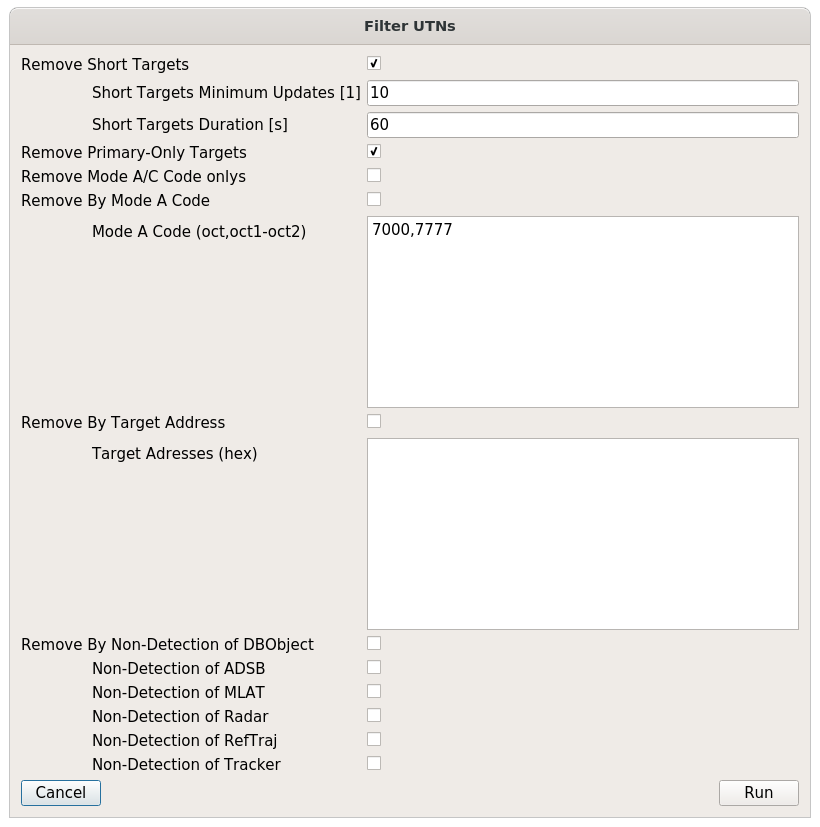
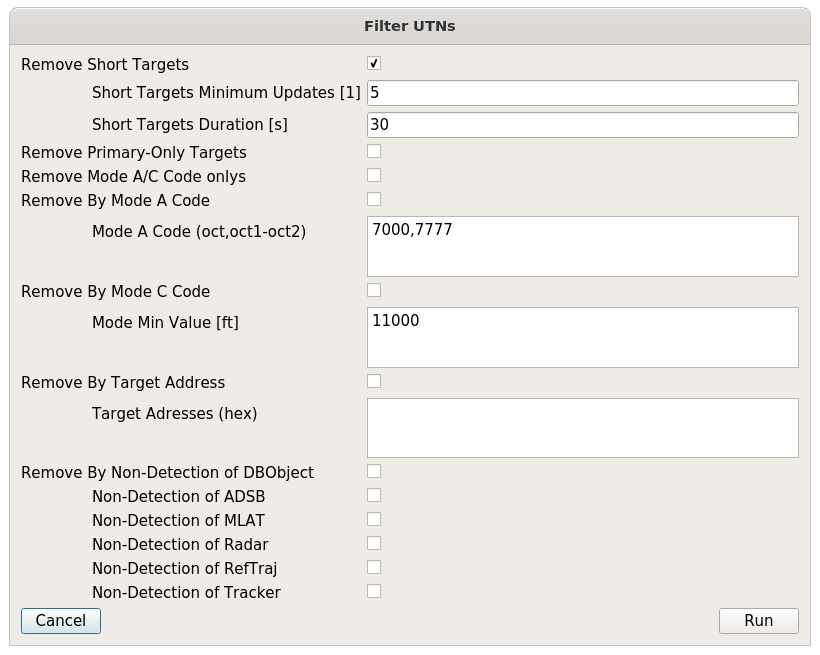
doc update

diff --git a/doc/user_manual/eval/eval_requirements.tex b/doc/user_manual/eval/eval_requirements.tex
@@ -81,6 +81,98 @@ Also, a table is given for all single targets, sorted by PD.
 \end{table}
 \end{center}
 
+
+\subsection{Dubious Tracks}
+\label{sec:eval_req_dubious_tracks} 
+
+\subsubsection{Configuration}
+
+\begin{figure}[H]
+    \includegraphics[width=14cm,frame]{../screenshots/eval_req_dubious_tracks.png}
+   \caption{Evaluation Dubious Tracks}
+\end{figure}
+
+The 'Dubious Tracks' requirement can be used to check for dubious tracks generated by a \textbf{Tracker} data-source (using the attributed track number). This requirement checks based on test data only, so the reference data is of no importance. \\
+
+For each track number (existing in an UTN) a number of checks are performed, and a probability of dubious target report is caluclated. Which checks are used can be defined as follows, but are focused on short tracks or physically dubious movement. \\
+
+\begin{itemize}  
+\item Probability [1]: Probability of dubious track
+\item Probability Check Type: $\geq$
+\item Use only from L.U. Sensor: Checkbox if only data from a single last-updating sensor id should be considered
+\item L.U. Sensor [1]: Last-updating sensor id (number, as in the 'Manage Data-Sources' task)
+\item Minimum Comparison Time [s]: Skip movement checks if time between updates is smaller than the defined time
+\item Maximum Comparison Time [s]: Skip movement checks if time between updates is larger than the defined time
+\item Mark Primary-Only: Checkbox if all primary-only tracks should be counted as dubious
+\item Use Minimum Updates: Checkbox if tracks with less than the defined number of updates should be counted as dubious
+\item Minimum Updates [1]: Minimum number of updates
+\item Use Minimum Duration: Checkbox if tracks with a duration less than the defined time should be counted as dubious
+\item Minimum Duration [s]: Minimum duration
+\item Use Maximum Groundspeed: Checkbox if maximum groundspeed should be used
+\item Maximum Groundspeed [kts]: Maximum groundspeed to be considered
+\item Use Maximum Acceleration: Checkbox if maximum acceleration should be used
+\item Maximum Acceleration [$m/s^{2}$]: Maximum acceleration to be considered
+\item Use Maximum Turnrate: Checkbox if maximum turnrate should be used
+\item Turnrate Groundspeed [deg/s]: Maximum groundspeed to be considered
+\item Use Maximum ROCD: Checkbox if turnrate rate of climb/descent should be used
+\item Maximum ROCD [ft/s]: Maximum  rate of climb/descent to be considered
+\item Dubious Probability [1]: Probability of dubious target report to classify a track as dubious
+\end{itemize}
+\ \\
+
+\subsubsection{Calculation}
+
+As a summary, the reference is used to calculate the number of expected update intervals inside the sector layer (\#EUI). Then, for the test data, if the reference exists at the time, time differences between target reports are checked and the number of misses/gaps are calculated as number of missed update intervals (\#MUI). \\
+
+Gaps are, if a minimum or maximum gap length is used, only counted if the detected gap fulfills the thresholds. \\
+
+The ratio of \#MUI and \#EUI gives the probability of missed update interval, the counter-probability gives the Probability of Detection (PD). The PD must greator or equal than the defined 'Probability' for the requirement to pass.
+
+\subsubsection{Result Values}
+
+\paragraph{Sector}
+
+\begin{center}
+ \begin{table}[H]
+  \begin{tabularx}{\textwidth}{ | l | X |  l | }
+    \hline
+    \textbf{Name} & \textbf{Description} & \textbf{Example} \\ \hline
+    Sector Layer & Name of the sector layer & fir\_cut\_sim \\ \hline
+    Reqirement Group & Name of the requirement group & Mandatory  \\ \hline
+    Reqirement & Name of the requirement & Detection  \\ \hline
+    Num Results & Total number of results & 728  \\ \hline
+    Num Usable Results & Number of usable results & 417  \\ \hline
+    Num Unusable Results & Number of unusable results & 311  \\ \hline
+    \#Updates/\#EUIs [1] & Total number update intervals & 7960  \\ \hline
+    \#MUIs [1] & Number of missed update intervals & 2221  \\ \hline
+    PD [\%] & Probability of Detection & 72.10  \\ \hline
+    Condition &  & >= 90.00  \\ \hline
+    Condition Fulfilled &  & Failed  \\ \hline
+\end{tabularx}
+\end{table}
+\end{center}
+
+Also, a table is given for all single targets, sorted by PD.
+
+\paragraph{Single Target}
+
+\begin{center}
+ \begin{table}[H]
+  \begin{tabularx}{\textwidth}{ | l | X |  l | }
+    \hline
+    \textbf{Name} & \textbf{Description} & \textbf{Example} \\ \hline
+    Use & To be used in results & true \\ \hline
+    \#EUIs [1] & Expected Update Intervals & 6 \\ \hline
+    \#MUIs [1] & Missed Update Intervals & 5 \\ \hline
+    PD [\%] & Probability of Detection & 16.67 \\ \hline
+    Reference Period 0 & Time inside sector & [15:47:22.680,15:47:45.828] \\ \hline
+    Reference Period 1 & Time inside sector & [15:47:53.844,15:47:57.844] \\ \hline
+    Condition &  & >= 90.00 \\ \hline
+    Condition Fulfilled &  & Failed \\ \hline
+\end{tabularx}
+\end{table}
+\end{center}
+
 \subsection{Extra Data}
 \label{sec:eval_req_extra_data} 
 

diff --git a/doc/user_manual/osg/osg_style_tab.tex b/doc/user_manual/osg/osg_style_tab.tex
@@ -3,7 +3,7 @@
 
 \begin{figure}[H]
    \center
-    \includegraphics[width=9cm,frame]{../screenshots/osgview_style_tab.png}
+    \includegraphics[width=8cm,frame]{../screenshots/osgview_style_tab.png}
   \caption{OSG View Style tab}
 \end{figure}
 
@@ -265,18 +265,25 @@ Please note that:
 
 \subsubsection{Render Order}
 
-In the render order widget, the drawing order of all DBObjects is specified. The one at the top is drawn last (over all others), so it is useful to move the most important DBObject (for the current inspection) to the top.
+In the render order widget, the drawing order of the drawn geometry is specified. The one at the top is drawn last (over all others), so it is useful to move the most important DBObject (for the current inspection) to the top.
 
 \begin{figure}[H]
-    \includegraphics[width=10cm,frame]{../screenshots/osgview_render_order.png}
+    \includegraphics[width=8cm,frame]{../screenshots/osgview_render_order.png}
   \caption{OSG View render order}
 \end{figure}
 
-To change the drawing order click on the DBObject to move and use the buttons on the right side. Please note that no redraw is required and that the drawing order is persisted in the configuration.
-% 
+Using the 'Order By' checkbox, the drawing order can be defined based on:
+\begin{itemize}
+ \item DBObject: Data-source type (e.g. Tracker, Radar, ...)
+ \item ds\_id: Data-source (e.g. Tracker1, Tracker2, Radar3, ...)
+\end{itemize}
+\ \\
+
+To change the drawing order click on the item to move and use the buttons on the right side. Please note that no redraw is required and that the drawing order is persisted in the configuration. \\
+
  \begin{itemize}
- \item \includegraphics[width=0.5cm]{../../data/icons/top.png} Move to Top: Move DBO to top position
- \item \includegraphics[width=0.5cm]{../../data/icons/up.png} Move Up: Move DBO one position up
- \item \includegraphics[width=0.5cm]{../../data/icons/down.png} Move Down: Move DBO one position down
- \item \includegraphics[width=0.5cm]{../../data/icons/bottom.png} Move to Bottom: Move DBO to the bottom position
+ \item \includegraphics[width=0.5cm]{../../data/icons/top.png} Move to Top: Move item to top position
+ \item \includegraphics[width=0.5cm]{../../data/icons/up.png} Move Up: Move item one position up
+ \item \includegraphics[width=0.5cm]{../../data/icons/down.png} Move Down: Move item one position down
+ \item \includegraphics[width=0.5cm]{../../data/icons/bottom.png} Move to Bottom: Move item to the bottom position
 \end{itemize}

diff --git a/doc/user_manual/eval/evaluation.tex b/doc/user_manual/eval/evaluation.tex
@@ -176,6 +176,8 @@ After loading the data, the table can look as follows:
   \caption{Evaluation Targets tab with loaded data}
 \end{figure}
 
+
+
 \subsection{Filter Tab}
 
 \begin{figure}[H]
@@ -389,6 +391,7 @@ The 'Filter UTNs' dialog can be used to dynamically filter UTNs based on the con
 \item Remove Primary-Only Targets: Removes primary-only targets (w/o secondary attributes)
 \item Remove Mode A/C Code onlys: Removes targets without Mode S attributes
 \item Remove by Mode A Code: Removes targets having a Mode A code given in the list
+\item Remove by Mode C Code: Removes targets having a Mode C code smaller than the given value
 \item Remove by Target Address: Removes targets having a Mode S target address given in the list
 \item Remove by Non-Detection of DBObject: Removes targets not being detected by a given DBOObject (e.g. sensor type)
 \end{itemize}

diff --git a/doc/user_manual/user_manual.tex b/doc/user_manual/user_manual.tex
@@ -225,7 +225,7 @@
 \begin{center}
 \normalsize\textsf{by Helmut Puhr}\par
 \medskip
-\normalsize\textsf{Version 0.6.2 \textit{Tenacious Tapir}}\par\textsf{Alpha Release}\par
+\normalsize\textsf{Version 0.6.3 \textit{Ubiquitous Unicorn}}\par\textsf{Alpha Release}\par
 \end{center}
 \vspace*{\fill}
 \begin{center}
